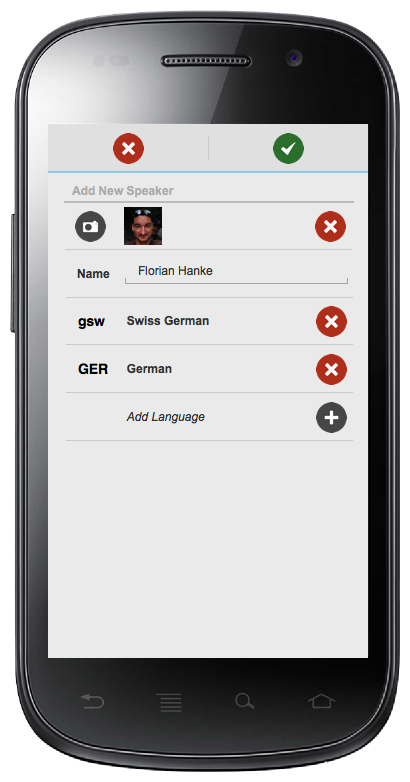
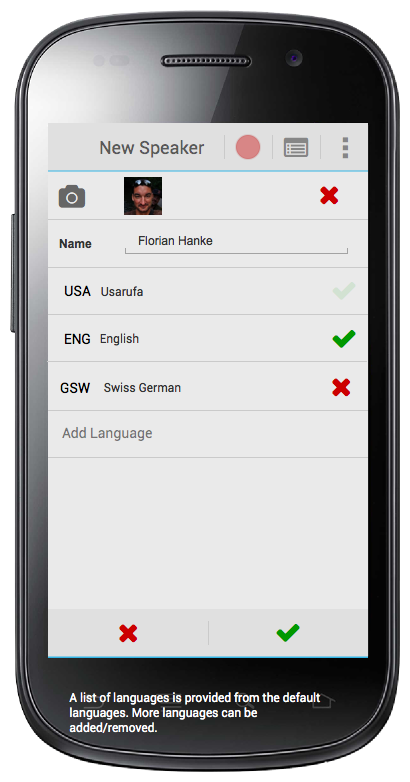
+ New design

diff --git a/source/aikuma/_pencil_design.html b/source/aikuma/_pencil_design.html
@@ -1,1 +1,1 @@
-<html xmlns="http://www.w3.org/1999/xhtml"><head><meta http-equiv="Content-Type" content="text/html; charset=UTF-8" /><title>Aikuma Wireframe.ep</title></head><body><h1 id="documentTitle">Aikuma Wireframe.ep</h1><p id="documentMetadata">Exported at: Tue Feb 26 2013 17:09:52 GMT+1100 (EST)</p><div class="Page" id="main_page"><h2>Main</h2><div class="ImageContainer"><img width="410" height="782" src="pages/main.png" usemap="#map_main" /></div><map name="map_main"><area shape="rect" coords="64,237,352,284" href="#playing_page" title="Go to page 'Playing'" /><area shape="rect" coords="150,124,265,176" href="#search_result_page" title="Go to page 'Search Result'" /><area shape="rect" coords="257,124,372,176" href="#settings_page" title="Go to page 'Settings'" /><area shape="rect" coords="125,560,292,659" href="#recording_page" title="Go to page 'Recording'" /></map></div><div class="Page" id="settings_page"><h2>Settings</h2><div class="ImageContainer"><img width="410" height="782" src="pages/settings.png" usemap="#map_settings" /></div><map name="map_settings"><area shape="rect" coords="44,124,159,176" href="#main_page" title="Go to page 'Main'" /><area shape="rect" coords="150,124,265,176" href="#search_result_page" title="Go to page 'Search Result'" /></map></div><div class="Page" id="recording_page"><h2>Recording</h2><div class="ImageContainer"><img width="410" height="782" src="pages/recording.png" usemap="#map_recording" /></div><map name="map_recording"><area shape="rect" coords="150,124,265,176" href="#search_result_page" title="Go to page 'Search Result'" /><area shape="rect" coords="257,124,372,176" href="#settings_page" title="Go to page 'Settings'" /><area shape="rect" coords="125,560,292,659" href="#metadata_page" title="Go to page 'Metadata'" /><area shape="rect" coords="64,265,352,312" href="#playing_comment_selected_page" title="Go to page 'Playing Comment Selected'" /><area shape="rect" coords="64,219,352,266" href="#playing_comment_selected_page" title="Go to page 'Playing Comment Selected'" /><area shape="rect" coords="64,172,352,219" href="#playing_comment_selected_page" title="Go to page 'Playing Comment Selected'" /></map></div><div class="Page" id="metadata_page"><h2>Metadata</h2><div class="ImageContainer"><img width="410" height="782" src="pages/metadata.png" usemap="#map_metadata" /></div><map name="map_metadata"><area shape="rect" coords="204,124,372,176" href="#metadata_share_page" title="Go to page 'Metadata (Share?)'" /><area shape="rect" coords="44,124,212,176" href="#main_page" title="Go to page 'Main'" /><area shape="rect" coords="316,514,347,545" href="#add_speaker_page" title="Go to page 'Add Speaker'" /><area shape="rect" coords="66,505,353,553" href="#add_speaker_page" title="Go to page 'Add Speaker'" /></map></div><div class="Page" id="add_speaker_page"><h2>Add Speaker</h2><div class="ImageContainer"><img width="410" height="782" src="pages/add_speaker.png" usemap="#map_add_speaker" /></div><map name="map_add_speaker"><area shape="rect" coords="204,124,372,176" href="#metadata_page" title="Go to page 'Metadata'" /><area shape="rect" coords="44,124,212,176" href="#metadata_page" title="Go to page 'Metadata'" /><area shape="rect" coords="316,402,347,433" href="#add_language_add_speaker_page" title="Go to page 'Add Language (Add Speaker)'" /><area shape="rect" coords="66,393,353,441" href="#add_language_add_speaker_page" title="Go to page 'Add Language (Add Speaker)'" /></map></div><div class="Page" id="playing_page"><h2>Playing</h2><div class="ImageContainer"><img width="410" height="782" src="pages/playing.png" usemap="#map_playing" /></div><map name="map_playing"><area shape="rect" coords="168,250,206,288" href="#playing_comment_selected_page" title="Go to page 'Playing Comment Selected'" /><area shape="rect" coords="63,250,101,288" href="#playing_recording_comment_page" title="Go to page 'Playing Recording Comment'" /></map></div><div class="Page" id="playing_comment_selected_page"><h2>Playing Comment Selected</h2><div class="ImageContainer"><img width="410" height="782" src="pages/playing_comment_selected.png" usemap="#map_playing_comment_selected" /></div><map name="map_playing_comment_selected"><area shape="rect" coords="63,250,101,288" href="#playing_recording_comment_page" title="Go to page 'Playing Recording Comment'" /></map></div><div class="Page" id="playing_recording_comment_page"><h2>Playing Recording Comment</h2><div class="ImageContainer"><img width="410" height="782" src="pages/playing_recording_comment.png" usemap="#map_playing_recording_comment" /></div><map name="map_playing_recording_comment"><area shape="rect" coords="63,250,101,288" href="#playing_comment_ok_page" title="Go to page 'Playing Comment Ok?'" /></map></div><div class="Page" id="playing_comment_ok_page"><h2>Playing Comment Ok?</h2><div class="ImageContainer"><img width="410" height="782" src="pages/playing_comment_ok.png" usemap="#map_playing_comment_ok" /></div><map name="map_playing_comment_ok"><area shape="rect" coords="112,359,176,423" href="#playing_comment_selected_page" title="Go to page 'Playing Comment Selected'" /><area shape="rect" coords="242,359,306,423" href="#metadata_page" title="Go to page 'Metadata'" /></map></div><div class="Page" id="add_language_add_speaker_page"><h2>Add Language (Add Speaker)</h2><div class="ImageContainer"><img width="410" height="782" src="pages/add_language_add_speaker.png" usemap="#map_add_language_add_speaker" /></div><map name="map_add_language_add_speaker"><area shape="rect" coords="81,218,334,266" href="#add_speaker_page" title="Go to page 'Add Speaker'" /><area shape="rect" coords="81,475,334,523" href="#add_speaker_page" title="Go to page 'Add Speaker'" /><area shape="rect" coords="81,427,334,475" href="#add_speaker_page" title="Go to page 'Add Speaker'" /><area shape="rect" coords="81,379,334,427" href="#add_speaker_page" title="Go to page 'Add Speaker'" /><area shape="rect" coords="81,331,334,379" href="#add_speaker_page" title="Go to page 'Add Speaker'" /><area shape="rect" coords="204,124,372,176" href="#metadata_page" title="Go to page 'Metadata'" /><area shape="rect" coords="44,124,212,176" href="#metadata_page" title="Go to page 'Metadata'" /></map></div><div class="Page" id="search_result_page"><h2>Search Result</h2><div class="ImageContainer"><img width="410" height="782" src="pages/search_result.png" usemap="#map_search_result" /></div><map name="map_search_result"><area shape="rect" coords="64,221,352,268" href="#playing_page" title="Go to page 'Playing'" /><area shape="rect" coords="321,181,352,212" href="#new_search_page" title="Go to page 'New Search'" /><area shape="rect" coords="44,124,159,176" href="#main_page" title="Go to page 'Main'" /><area shape="rect" coords="257,124,372,176" href="#settings_page" title="Go to page 'Settings'" /><area shape="rect" coords="64,680,119,721" href="#main_page" title="Go to page 'Main'" /></map></div><div class="Page" id="new_search_page"><h2>New Search</h2><div class="ImageContainer"><img width="410" height="782" src="pages/new_search.png" usemap="#map_new_search" /></div><map name="map_new_search"><area shape="rect" coords="204,124,372,176" href="#search_result_page" title="Go to page 'Search Result'" /><area shape="rect" coords="44,124,212,176" href="#search_result_page" title="Go to page 'Search Result'" /></map></div><div class="Page" id="metadata_share_page"><h2>Metadata (Share?)</h2><div class="ImageContainer"><img width="410" height="782" src="pages/metadata_share.png" usemap="#map_metadata_share" /></div><map name="map_metadata_share"><area shape="rect" coords="204,124,372,176" href="#main_page" title="Go to page 'Main'" /><area shape="rect" coords="44,124,212,176" href="#main_page" title="Go to page 'Main'" /><area shape="rect" coords="316,514,347,545" href="#add_speaker_page" title="Go to page 'Add Speaker'" /><area shape="rect" coords="66,458,354,506" href="#speaker_page" title="Go to page 'Speaker'" /></map></div></body></html>
+<html xmlns="http://www.w3.org/1999/xhtml"><head><meta http-equiv="Content-Type" content="text/html; charset=UTF-8" /><title>Aikuma Wireframe.ep</title></head><body><h1 id="documentTitle">Aikuma Wireframe.ep</h1><p id="documentMetadata">Exported at: Mon Jun 17 2013 15:55:59 GMT+1000 (EST)</p><div class="Page" id="main_page"><h2>Main</h2><div class="ImageContainer"><img width="410" height="782" src="pages/main.png" usemap="#map_main" /></div><map name="map_main"><area shape="rect" coords="154.5,383.5,254.5,516.5" href="#main_sync_state_shown_page" title="Go to page 'Main (sync state shown)'" /><area shape="rect" coords="316,123,388.51666259765625,175" href="#menu_page" title="Go to page 'Menu'" /><area shape="rect" coords="220,123,276,175" href="#record_page" title="Go to page 'Record'" /><area shape="rect" coords="48,292,368,339" href="#playing_page" title="Go to page 'Playing'" /><area shape="rect" coords="48,245,368,292" href="#playing_page" title="Go to page 'Playing'" /><area shape="rect" coords="48,198,368,245" href="#playing_page" title="Go to page 'Playing'" /></map></div><div class="Page" id="main_sync_state_shown_page"><h2>Main (sync state shown)</h2><div class="ImageContainer"><img width="410" height="782" src="pages/main_sync_state_shown.png" usemap="#map_main_sync_state_shown" /></div><map name="map_main_sync_state_shown"><area shape="rect" coords="48,355,368,402" href="#playing_page" title="Go to page 'Playing'" /><area shape="rect" coords="48,308,368,355" href="#playing_page" title="Go to page 'Playing'" /><area shape="rect" coords="48,261,368,308" href="#playing_page" title="Go to page 'Playing'" /><area shape="rect" coords="316,123,388.51666259765625,175" href="#menu_page" title="Go to page 'Menu'" /><area shape="rect" coords="220,123,276,175" href="#record_page" title="Go to page 'Record'" /></map></div><div class="Page" id="settings_page"><h2>Settings</h2><div class="ImageContainer"><img width="410" height="782" src="pages/settings.png" usemap="#map_settings" /></div><map name="map_settings"><area shape="rect" coords="316,123,388.51666259765625,175" href="#menu_page" title="Go to page 'Menu'" /><area shape="rect" coords="268,123,324,175" href="#main_page" title="Go to page 'Main'" /><area shape="rect" coords="220,123,276,175" href="#record_page" title="Go to page 'Record'" /></map></div><div class="Page" id="record_page"><h2>Record</h2><div class="ImageContainer"><img width="410" height="782" src="pages/record.png" usemap="#map_record" /></div><map name="map_record"><area shape="rect" coords="316,123,388.51666259765625,175" href="#menu_page" title="Go to page 'Menu'" /><area shape="rect" coords="268,123,324,175" href="#main_page" title="Go to page 'Main'" /><area shape="rect" coords="44,610,372,662" href="#recording_page" title="Go to page 'Recording'" /></map></div><div class="Page" id="recording_page"><h2>Recording</h2><div class="ImageContainer"><img width="410" height="782" src="pages/recording.png" usemap="#map_recording" /></div><map name="map_recording"><area shape="rect" coords="316,123,388.51666259765625,175" href="#menu_page" title="Go to page 'Menu'" /><area shape="rect" coords="268,123,324,175" href="#main_page" title="Go to page 'Main'" /><area shape="rect" coords="44,610,372,662" href="#metadata_page" title="Go to page 'Metadata'" /></map></div><div class="Page" id="metadata_page"><h2>Metadata</h2><div class="ImageContainer"><img width="410" height="782" src="pages/metadata.png" usemap="#map_metadata" /></div><map name="map_metadata"><area shape="rect" coords="204,610,372,662" href="#main_page" title="Go to page 'Main'" /><area shape="rect" coords="204,610,372,662" href="#main_page" title="Go to page 'Main'" /><area shape="rect" coords="316,123,388.51666259765625,175" href="#menu_page" title="Go to page 'Menu'" /><area shape="rect" coords="268,123,324,175" href="#main_page" title="Go to page 'Main'" /><area shape="rect" coords="220,123,276,175" href="#record_page" title="Go to page 'Record'" /><area shape="rect" coords="149,255,187,293" href="#add_speaker_page" title="Go to page 'Add Speaker'" /><area shape="rect" coords="44,610,212,662" href="#main_page" title="Go to page 'Main'" /></map></div><div class="Page" id="speaker_page"><h2>Speaker</h2><div class="ImageContainer"><img width="410" height="782" src="pages/speaker.png" usemap="#map_speaker" /></div><map name="map_speaker"><area shape="rect" coords="48,266,368,313" href="#playing_page" title="Go to page 'Playing'" /><area shape="rect" coords="48,220,368,267" href="#playing_page" title="Go to page 'Playing'" /><area shape="rect" coords="316,123,388.51666259765625,175" href="#menu_page" title="Go to page 'Menu'" /><area shape="rect" coords="268,123,324,175" href="#main_page" title="Go to page 'Main'" /><area shape="rect" coords="220,123,276,175" href="#record_page" title="Go to page 'Record'" /><area shape="rect" coords="64,680,119,721" href="#main_page" title="Go to page 'Main'" /></map></div><div class="Page" id="add_speaker_page"><h2>Add Speaker</h2><div class="ImageContainer"><img width="410" height="782" src="pages/add_speaker.png" usemap="#map_add_speaker" /></div><map name="map_add_speaker"><area shape="rect" coords="316,123,388.51666259765625,175" href="#menu_page" title="Go to page 'Menu'" /><area shape="rect" coords="268,123,324,175" href="#main_page" title="Go to page 'Main'" /><area shape="rect" coords="220,123,276,175" href="#record_page" title="Go to page 'Record'" /><area shape="rect" coords="48,410,368,458" href="#add_language_add_speaker_page" title="Go to page 'Add Language (Add Speaker)'" /><area shape="rect" coords="204,609,372,661" href="#metadata_page" title="Go to page 'Metadata'" /><area shape="rect" coords="44,609,212,661" href="#metadata_page" title="Go to page 'Metadata'" /></map></div><div class="Page" id="playing_page"><h2>Playing</h2><div class="ImageContainer"><img width="410" height="782" src="pages/playing.png" usemap="#map_playing" /></div><map name="map_playing"><area shape="rect" coords="316,123,388.51666259765625,175" href="#menu_page" title="Go to page 'Menu'" /><area shape="rect" coords="268,123,324,175" href="#main_page" title="Go to page 'Main'" /><area shape="rect" coords="220,123,276,175" href="#record_page" title="Go to page 'Record'" /><area shape="rect" coords="44,610,372,662" href="#playing_recording_comment_page" title="Go to page 'Playing Recording Comment'" /><area shape="rect" coords="129,314,167,352" href="#playing_comment_selected_page" title="Go to page 'Playing Comment Selected'" /></map></div><div class="Page" id="playing_comment_selected_page"><h2>Playing Comment Selected</h2><div class="ImageContainer"><img width="410" height="782" src="pages/playing_comment_selected.png" usemap="#map_playing_comment_selected" /></div><map name="map_playing_comment_selected"><area shape="rect" coords="316,123,388.51666259765625,175" href="#menu_page" title="Go to page 'Menu'" /><area shape="rect" coords="268,123,324,175" href="#main_page" title="Go to page 'Main'" /><area shape="rect" coords="220,123,276,175" href="#record_page" title="Go to page 'Record'" /><area shape="rect" coords="129,314,167,352" href="#playing_comment_selected_page" title="Go to page 'Playing Comment Selected'" /></map></div><div class="Page" id="playing_recording_comment_page"><h2>Playing Recording Comment</h2><div class="ImageContainer"><img width="410" height="782" src="pages/playing_recording_comment.png" usemap="#map_playing_recording_comment" /></div><map name="map_playing_recording_comment"><area shape="rect" coords="316,123,388.51666259765625,175" href="#menu_page" title="Go to page 'Menu'" /><area shape="rect" coords="268,123,324,175" href="#main_page" title="Go to page 'Main'" /><area shape="rect" coords="220,123,276,175" href="#record_page" title="Go to page 'Record'" /><area shape="rect" coords="129,314,167,352" href="#playing_comment_selected_page" title="Go to page 'Playing Comment Selected'" /><area shape="rect" coords="44,610,372,662" href="#playing_comment_ok_page" title="Go to page 'Playing Comment Ok?'" /></map></div><div class="Page" id="playing_comment_ok_page"><h2>Playing Comment Ok?</h2><div class="ImageContainer"><img width="410" height="782" src="pages/playing_comment_ok.png" usemap="#map_playing_comment_ok" /></div><map name="map_playing_comment_ok"><area shape="rect" coords="316,123,388.51666259765625,175" href="#menu_page" title="Go to page 'Menu'" /><area shape="rect" coords="268,123,324,175" href="#main_page" title="Go to page 'Main'" /><area shape="rect" coords="220,123,276,175" href="#record_page" title="Go to page 'Record'" /><area shape="rect" coords="129,314,167,352" href="#playing_comment_selected_page" title="Go to page 'Playing Comment Selected'" /><area shape="rect" coords="203,610,371,662" href="#metadata_page" title="Go to page 'Metadata'" /><area shape="rect" coords="44,610,212,662" href="#playing_page" title="Go to page 'Playing'" /></map></div><div class="Page" id="add_language_add_speaker_page"><h2>Add Language (Add Speaker)</h2><div class="ImageContainer"><img width="410" height="782" src="pages/add_language_add_speaker.png" usemap="#map_add_language_add_speaker" /></div><map name="map_add_language_add_speaker"><area shape="rect" coords="316,123,388.51666259765625,175" href="#menu_page" title="Go to page 'Menu'" /><area shape="rect" coords="268,123,324,175" href="#main_page" title="Go to page 'Main'" /><area shape="rect" coords="220,123,276,175" href="#record_page" title="Go to page 'Record'" /><area shape="rect" coords="203,610,371,662" href="#add_speaker_page" title="Go to page 'Add Speaker'" /><area shape="rect" coords="44,610,212,662" href="#add_speaker_page" title="Go to page 'Add Speaker'" /><area shape="rect" coords="81,218,334,266" href="#add_speaker_page" title="Go to page 'Add Speaker'" /><area shape="rect" coords="81,475,334,523" href="#add_speaker_page" title="Go to page 'Add Speaker'" /><area shape="rect" coords="81,427,334,475" href="#add_speaker_page" title="Go to page 'Add Speaker'" /><area shape="rect" coords="81,379,334,427" href="#add_speaker_page" title="Go to page 'Add Speaker'" /><area shape="rect" coords="81,331,334,379" href="#add_speaker_page" title="Go to page 'Add Speaker'" /></map></div><div class="Page" id="search_result_page"><h2>Search Result</h2><div class="ImageContainer"><img width="410" height="782" src="pages/search_result.png" usemap="#map_search_result" /></div><map name="map_search_result"><area shape="rect" coords="48,340,368,387" href="#playing_page" title="Go to page 'Playing'" /><area shape="rect" coords="48,293,368,340" href="#playing_page" title="Go to page 'Playing'" /><area shape="rect" coords="48,246,368,293" href="#playing_page" title="Go to page 'Playing'" /><area shape="rect" coords="316,123,388.51666259765625,175" href="#menu_page" title="Go to page 'Menu'" /><area shape="rect" coords="268,123,324,175" href="#main_page" title="Go to page 'Main'" /><area shape="rect" coords="220,123,276,175" href="#record_page" title="Go to page 'Record'" /><area shape="rect" coords="331,208,353.43333435058594,236" href="#new_search_page" title="Go to page 'New Search'" /><area shape="rect" coords="48,200,368,247" href="#playing_comment_selected_page" title="Go to page 'Playing Comment Selected'" /><area shape="rect" coords="64,680,119,721" href="#main_page" title="Go to page 'Main'" /></map></div><div class="Page" id="new_search_page"><h2>New Search</h2><div class="ImageContainer"><img width="410" height="782" src="pages/new_search.png" usemap="#map_new_search" /></div><map name="map_new_search"><area shape="rect" coords="316,123,388.51666259765625,175" href="#menu_page" title="Go to page 'Menu'" /><area shape="rect" coords="268,123,324,175" href="#main_page" title="Go to page 'Main'" /><area shape="rect" coords="220,123,276,175" href="#record_page" title="Go to page 'Record'" /><area shape="rect" coords="204,609,372,661" href="#metadata_share_page" title="Go to page 'Metadata (Share?)'" /><area shape="rect" coords="44,609,212,661" href="#search_result_page" title="Go to page 'Search Result'" /></map></div><div class="Page" id="metadata_share_page"><h2>Metadata (Share?)</h2><div class="ImageContainer"><img width="410" height="782" src="pages/metadata_share.png" usemap="#map_metadata_share" /></div><map name="map_metadata_share"><area shape="rect" coords="316,123,388.51666259765625,175" href="#menu_page" title="Go to page 'Menu'" /><area shape="rect" coords="268,123,324,175" href="#main_page" title="Go to page 'Main'" /><area shape="rect" coords="220,123,276,175" href="#record_page" title="Go to page 'Record'" /><area shape="rect" coords="204,610,372,662" href="#search_result_page" title="Go to page 'Search Result'" /><area shape="rect" coords="44,610,212,662" href="#search_result_page" title="Go to page 'Search Result'" /></map></div><div class="Page" id="menu_page"><h2>Menu</h2><div class="ImageContainer"><img width="410" height="782" src="pages/menu.png" usemap="#map_menu" /></div><map name="map_menu"><area shape="rect" coords="229,208,379,247" href="#speaker_page" title="Go to page 'Speaker'" /><area shape="rect" coords="229,243,379,291" href="#settings_page" title="Go to page 'Settings'" /><area shape="rect" coords="229,160,379,212" href="#search_result_page" title="Go to page 'Search Result'" /><area shape="rect" coords="268,123,324,175" href="#main_page" title="Go to page 'Main'" /><area shape="rect" coords="220,123,276,175" href="#record_page" title="Go to page 'Record'" /></map></div><div class="Page" id="various_2_page"><h2>Various 2</h2><div class="ImageContainer"><img width="410" height="782" src="pages/various_2.png" usemap="#map_various_2" /></div><map name="map_various_2"></map></div><div class="Page" id="various_page"><h2>Various</h2><div class="ImageContainer"><img width="410" height="782" src="pages/various.png" usemap="#map_various" /></div><map name="map_various"></map></div></body></html>
